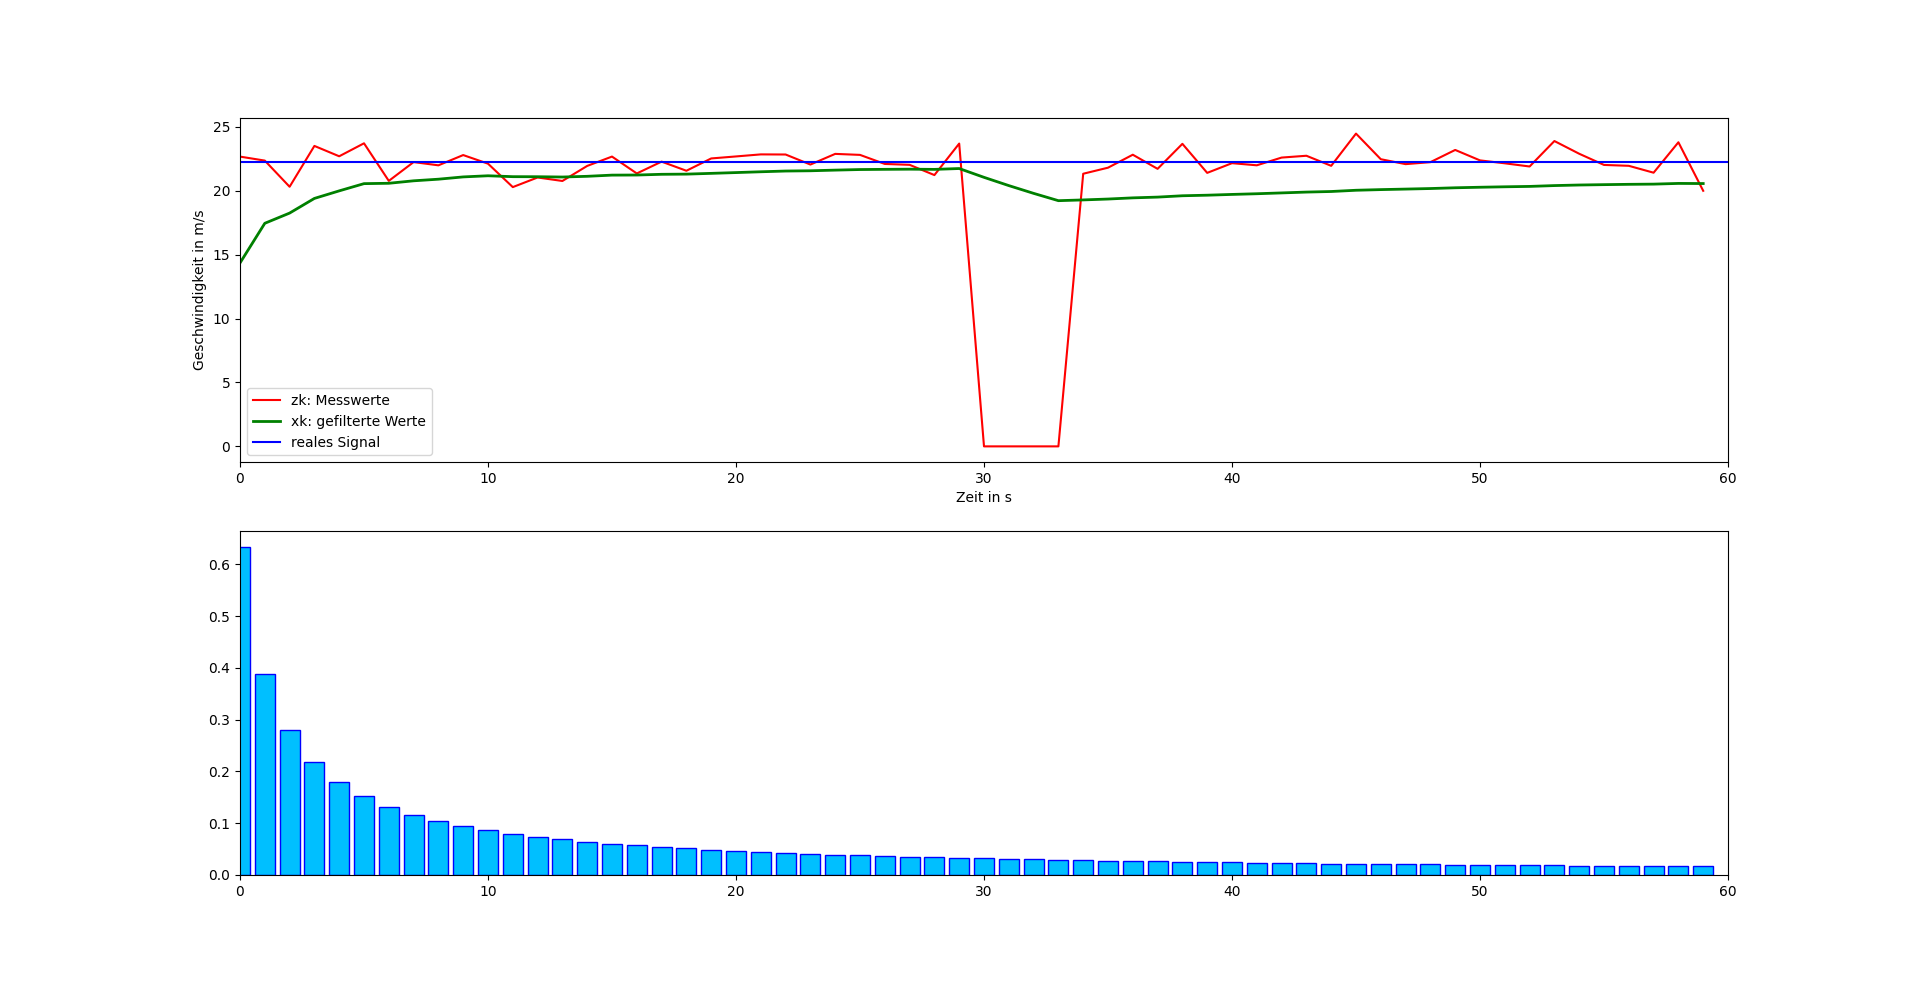
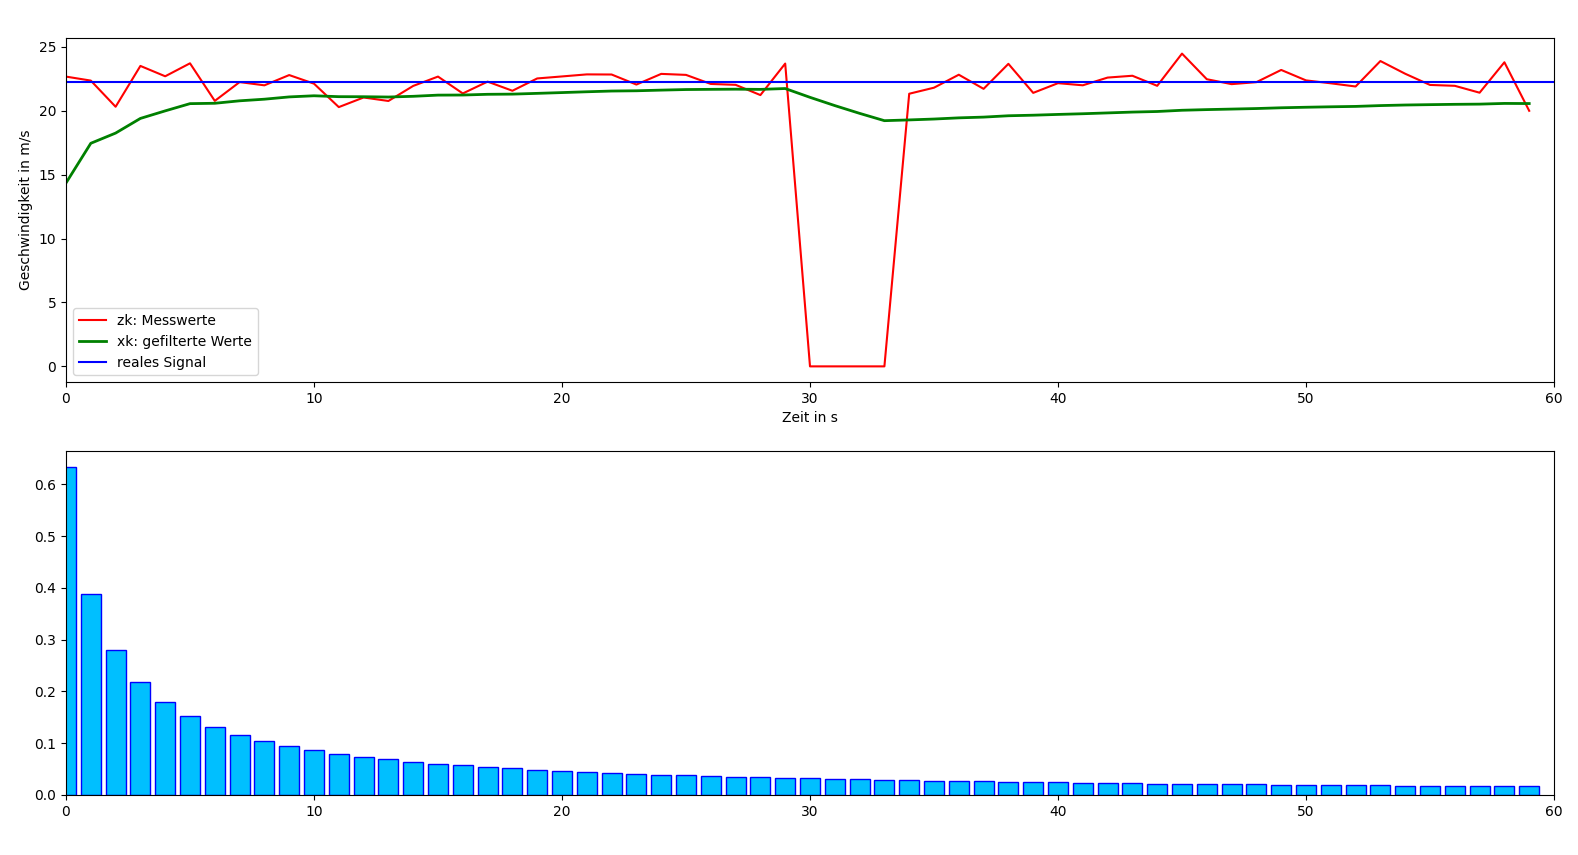
desperate commit

diff --git a/LaTeX/01_kalman_filter.tex b/LaTeX/01_kalman_filter.tex
@@ -500,18 +500,18 @@
     \frametitle{Messwerte des Beispiel}
 
     % \centering
-    Imagine the following scenario: 
+    Imagine the following scenario:
     We are driving to the THWS, and are passing an funnel on our way.
-    We are traveling on an average of 22.22\(m/s\) (80km/h). 
-    
+    We are traveling on an average of 22.22\(m/s\) (80km/h).
+
     \vspace{1em}
 
     \centering
     \begin{tabular}{ | r | c|c|c|c|c|c|c|c|c|c|c| }
-        \hline 
-        Time in $s$      &    1 &    2 &    3 &    4 &    5 &    6 &    7 &    8 &    9 & 10   \\
-        \hline                                               
-        Distance in $m$  & 24.0 & 21.4 & 22.5 & 21.9 & 21.6 & 21.9 & 22.0 & 22.6 & 19.2 & 20.0 \\ 
+        \hline
+        Time in $s$     & 1    & 2    & 3    & 4    & 5    & 6    & 7    & 8    & 9    & 10   \\
+        \hline
+        Distance in $m$ & 24.0 & 21.4 & 22.5 & 21.9 & 21.6 & 21.9 & 22.0 & 22.6 & 19.2 & 20.0 \\
         \hline
     \end{tabular}
 \end{frame}
@@ -522,105 +522,157 @@
 
         \begin{column}{0.45\textwidth}
             \begin{tabular}{ | l |  }
-                \hline 
-                \bf{Prediction} \\
-                \hline 
-                \hline 
-                Project the state ahead \\
-                \(x_{k+1} = \hat{x}_{k} = 0\) \\
-                \hline 
+                \hline
+                \bf{Prediction}                    \\
+                \hline
+                \hline
+                Project the state ahead            \\
+                \(\hat{x}_{k}  = 0\)               \\
+                \hline
                 Project the error covariance ahead \\
-                \(P_{k+1} = P_{k} = 1\) \\
+                \(P_{k} = 1\)                      \\
                 \hline
             \end{tabular}
         \end{column}
 
         \begin{column}{0.45\textwidth}
-        \begin{tabular}{ | l |  }
-            \hline 
-            \bf{Correction} \\
-            \hline 
-            \hline 
-            Compute the Kalman Gain \\
-                \(K_{k+1} = \frac{P_{k}}{P_{k}+R} = \frac{1}{1+0.1} = 0.909\) \\
-            \hline 
-            Update the estimate via Measurement \\
-                \(\hat{x}_{k+1} = \hat{x}_{k} + K_{k}(z_{k} - \hat{x}_{k}) \)\\
-                \(= 0 + 0.909 * (24.0 - 0) \)\\
-                \(= 21,816\) \\
-            \hline 
-            Update the error covariance \\
-                \(P_{k+1} = (I - K_{k})P_{k}\) \\
-                \(=(1-0.909)\cdot 1\) \\
-                \(= 0,091\) \\
-            \hline
-        \end{tabular}
+            \begin{tabular}{ | l |  }
+                \hline
+                \bf{Correction}                                               \\
+                \hline
+                \hline
+                Compute the Kalman Gain                                       \\
+                \(K_{k} = \frac{P_{k}}{P_{k}+R} = \frac{1}{1+0.58} = 0.6329\) \\
+                \hline
+                Update the estimate via Measurement                           \\
+                \(\hat{x}_{k+1} = \hat{x}_{k} + K_{k}(z_{k} - \hat{x}_{k}) \) \\
+                \(= 0 + 0.6329 \cdot (24.0 - 0) \)                            \\
+                \(= 15.2\)                                                    \\
+                \hline
+                Update the error covariance                                   \\
+                \(P_{k+1} = (I - K_{k})P_{k}\)                                \\
+                \(=(1-0.6329)\cdot 1\)                                        \\
+                \(= 0.3671\)                                                  \\
+                \hline
+            \end{tabular}
         \end{column}
     \end{columns}
 \end{frame}
 
 \begin{frame}
     \frametitle{Example, 1. Iteration}
-    \footnotesize
 
     \begin{columns}[T]
 
         \begin{column}{0.45\textwidth}
             \begin{tabular}{ | l |  }
-                \hline 
-                \bf{Prediction} \\
-                \hline 
-                \hline 
-                Project the state ahead \\
-                \(x_{k+1} = \hat{x}_{k} = 0\) \\
-                \hline 
+                \hline
+                \bf{Prediction}                    \\
+                \hline
+                \hline
+                Project the state ahead            \\
+                \(\hat{x}_{k} = 15.2\)             \\
+                \hline
                 Project the error covariance ahead \\
-                \(P_{k+1} = P_{k} = 1\) \\
+                \(P_{k} = 0.3671\)                 \\
                 \hline
             \end{tabular}
         \end{column}
 
         \begin{column}{0.45\textwidth}
-        \begin{tabular}{ | l |  }
-            \hline 
-            \bf{Correction} \\
-            \hline 
-            \hline 
-            Compute the Kalman Gain \\
-                \(K_{k+1} = \frac{P_{k}}{P_{k}+R} = \frac{1}{1+0.1} = 0.909\) \\
-            \hline 
-            Update the estimate via Measurement \\
-                \(\hat{x}_{k+1} = \hat{x}_{k} + K_{k}(z_{k} - \hat{x}_{k}) \)\\
-                \(= 0 + 0.909 * (495,1 - 0) \)\\
-                \(= 450,0\) \\
-            \hline 
-            Update the error covariance \\
-                \(P_{k+1} = (I - K_{k})P_{k}\) \\
-                \(=(1-450,0)\cdot 1\) \\
-                \(= -449\) \\
-            \hline
-        \end{tabular}
+            \begin{tabular}{ | l |  }
+                \hline
+                \bf{Correction}                                                         \\
+                \hline
+                \hline
+                Compute the Kalman Gain                                                 \\
+                \(K_{k} = \frac{P_{k}}{P_{k}+R} = \frac{0.3671}{0.3671+0.58} = 0.3876\) \\
+                \hline
+                Update the estimate via Measurement                                     \\
+                \(\hat{x}_{k+1} = \hat{x}_{k} + K_{k}(z_{k} - \hat{x}_{k}) \)           \\
+                \(= 15.2 + 0.3876 \cdot (21.4 - 15.2) \)                                \\
+                \(= 17.6\)                                                              \\
+                \hline
+                Update the error covariance                                             \\
+                \(P_{k+1} = (I - K_{k})P_{k}\)                                          \\
+                \(=(1-0.3876)\cdot 0.3671\)                                             \\
+                \(= 0.2248\)                                                            \\
+                \hline
+            \end{tabular}
         \end{column}
     \end{columns}
-    
+
+\end{frame}
+
+\begin{frame}
+    \frametitle{Example, 2. Iteration}
+
+    \begin{columns}[T]
+
+        \begin{column}{0.45\textwidth}
+            \begin{tabular}{ | l |  }
+                \hline
+                \bf{Prediction}                    \\
+                \hline
+                \hline
+                Project the state ahead            \\
+                \(\hat{x}_{k} = 17.6\)             \\
+                \hline
+                Project the error covariance ahead \\
+                \(P_{k} = 0.2248\)                 \\
+                \hline
+            \end{tabular}
+        \end{column}
+
+        \begin{column}{0.45\textwidth}
+            \begin{tabular}{ | l |  }
+                \hline
+                \bf{Correction}                                                         \\
+                \hline
+                \hline
+                Compute the Kalman Gain                                                 \\
+                \(K_{k} = \frac{P_{k}}{P_{k}+R} = \frac{0.2248}{0.2248+0.58} = 0.2793\) \\
+                \hline
+                Update the estimate via Measurement                                     \\
+                \(\hat{x}_{k+1} = \hat{x}_{k} + K_{k}(z_{k} - \hat{x}_{k}) \)           \\
+                \(= 17.6 + 0.2793 \cdot (22.5 - 17.6) \)                                \\
+                \(= 19.0\)                                                              \\
+                \hline
+                Update the error covariance                                             \\
+                \(P_{k+1} = (I - K_{k})P_{k}\)                                          \\
+                \(=(1-0.2793)\cdot 0.2248\)                                             \\
+                \(= 0.1620\)                                                            \\
+                \hline
+            \end{tabular}
+        \end{column}
+    \end{columns}
+
 \end{frame}
 
 \begin{frame}
     \frametitle{Iteration 1 to 10}
     \centering
     \begin{tabular}{ | l | r | r | r | r | r | r | r | r | r | r |  }
-        \hline 
-        \(k\)         &    1 &    2 &    3 &    4 & 5    &    6 &    7 &    8 &    9 &   10 \\
-         \hline  
-        \(z_k\)       & 24.0 & 21.4 & 22.5 & 21.9 & 21.6 & 21.9 & 22.0 & 22.6 & 19.2 & 20.0 \\
-        \hline  
-        \(K_k\)       & 0.63 & 0.38 & 0.27 & 0.21 & 0.17 & 0.15 & 0.13 & 0.11 & 0.10 & 0.09 \\
-        \hline  
-        \(P_k\)       &    1 & 0.36 & 0.22 & 0.16 & 0.12 & 0.10 & 0.08 & 0.07 & 0.06 & 0.06 \\
-        \hline 
-        \(\hat{x}_k\) & 15.2 & 17.6 & 19.0 & 19.6 & 20.0 & 20.3 & 20.5 & 20.7 & 20.6 & 20.5 \\
         \hline
-    \end{tabular} 
+        \(k\)         & 0    & 1    & 2    & 3    & 4    & 5    & 6    & 7    & 8    & 9    \\
+        \hline
+        \(z_k\)       & 24.0 & 21.4 & 22.5 & 21.9 & 21.6 & 21.9 & 22.0 & 22.6 & 19.2 & 20.0 \\
+        \hline
+        \(K_k\)       & 0.63 & 0.38 & 0.27 & 0.21 & 0.17 & 0.15 & 0.13 & 0.11 & 0.10 & 0.09 \\
+        \hline
+        \(P_k\)       & 1    & 0.36 & 0.22 & 0.16 & 0.12 & 0.10 & 0.08 & 0.07 & 0.06 & 0.06 \\
+        \hline
+        \(\hat{x}_k\) & 0    & 15.2 & 17.6 & 19.0 & 19.6 & 20.0 & 20.3 & 20.5 & 20.7 & 20.6 \\
+        \hline
+    \end{tabular}
+\end{frame}
+
+\begin{frame}
+    \frametitle{Tunnel}
+    \begin{figure}
+        \centering
+        \includegraphics[width=0.95\textwidth]{images/tunnel.png}
+    \end{figure}
 \end{frame}
 
 \section{Summary}

diff --git a/py/deprecated/KalmanExplained.py b/py/deprecated/KalmanExplained.py
@@ -123,6 +123,9 @@ estimate_previous_iteration = 0
 # Vorheriger Messwert unbekannt, deshalb 0 (= `estimate_previous_iteration`)
 estimate_current_iteration = estimate_previous_iteration
 
+dach_x_k = []
+dach_x_k.append(f"{estimate_current_iteration}")
+
 # Fehlerkovarianz am Anfang 1 und nicht 0, da normalerweise immer ein Messrauschen vorhanden ist
 error_covariance_previous_iteration = 1
 error_covariance_current_iteration = error_covariance_previous_iteration
@@ -162,17 +165,16 @@ k = []
 z_k = []
 K_k = []
 P_k = []
-dach_x_k = []
 
 k.append("1")
 z_k.append(f"{messurement_current}")
 K_k.append(f"{kalman_gain_current_iteration}")
 P_k.append(f"{error_covariance_current_iteration}")
-dach_x_k.append(f"{estimate_current_iteration}")
 
 
 for iteration in range(1, messurement_sample_size):
 
+    dach_x_k.append(f"{estimate_current_iteration}")
     # -- Vorhersage - - - - - - - - - - - - - - - - - - - - - - - - - - - - - - - - - - - - - - - -
 
     # [1.] Den nächsten Zustand darstellen
@@ -209,7 +211,6 @@ for iteration in range(1, messurement_sample_size):
     z_k.append(f"{messurement_current}")
     K_k.append(f"{kalman_gain_current_iteration}")
     P_k.append(f"{error_covariance_current_iteration}")
-    dach_x_k.append(f"{estimate_current_iteration}")
 
     gesamt = [k, z_k, K_k, P_k, dach_x_k]
 
